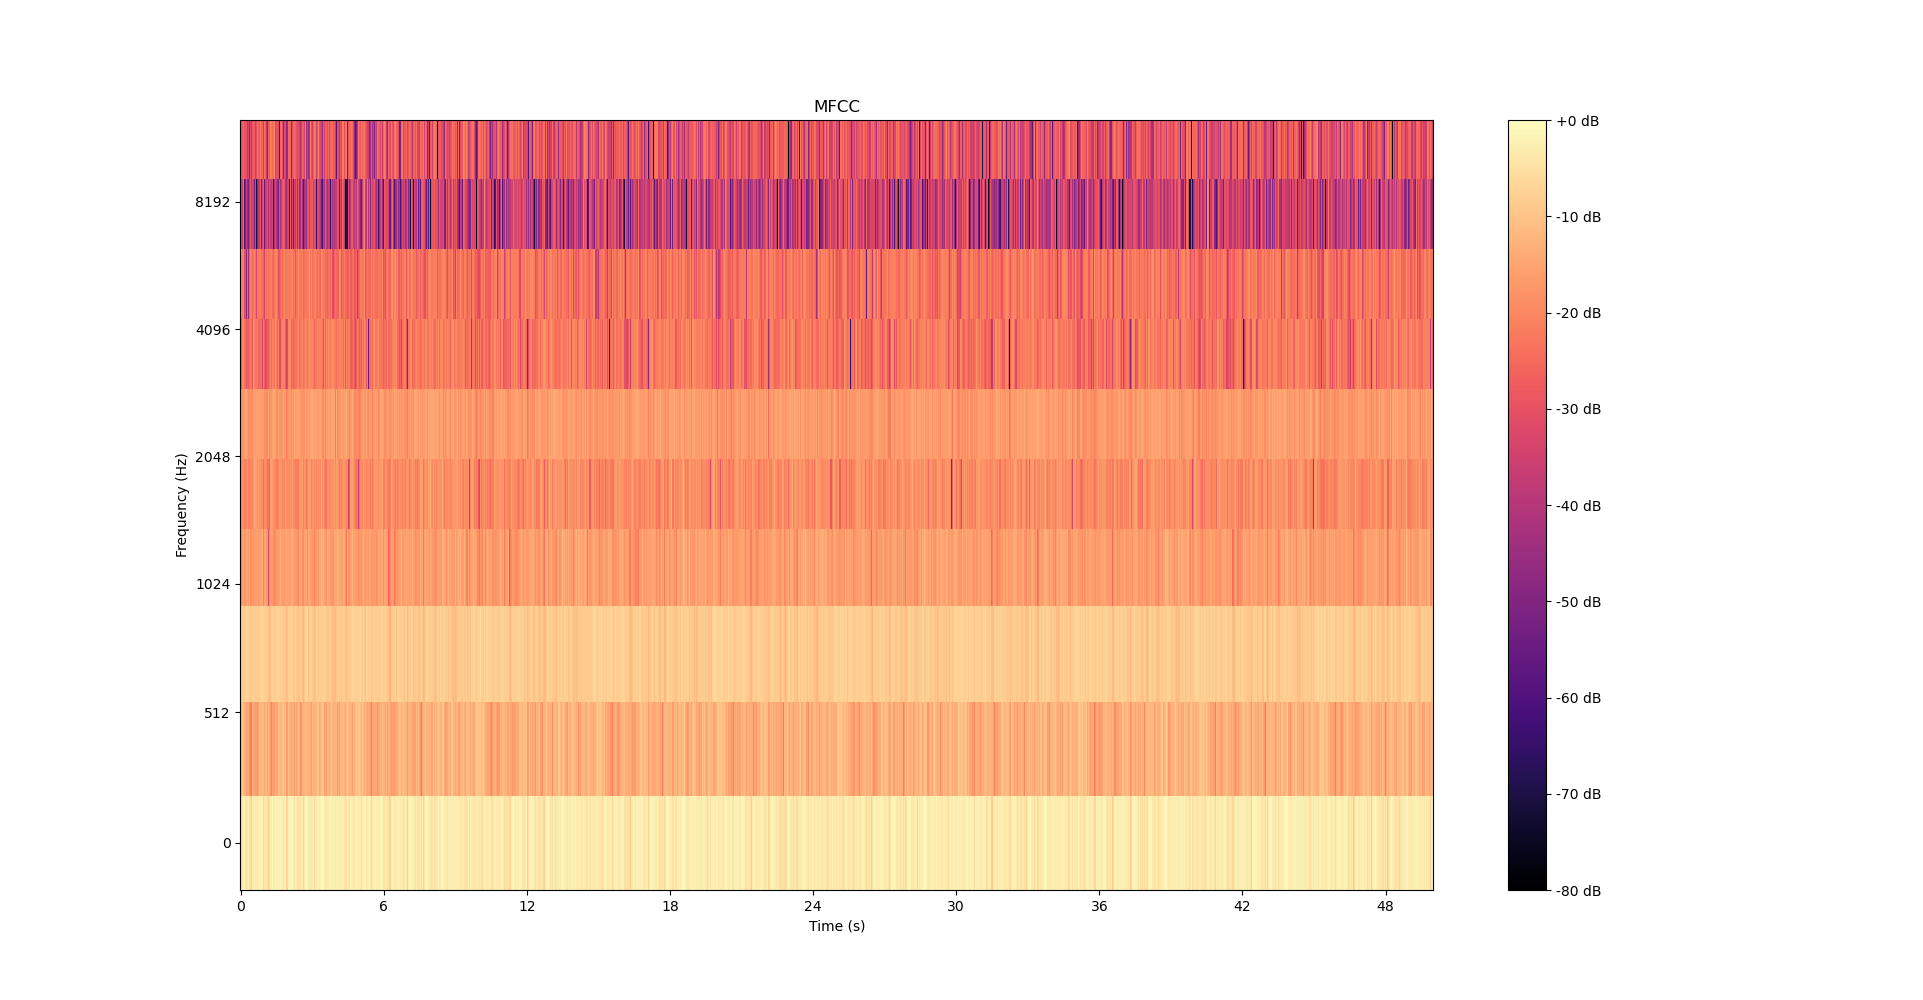
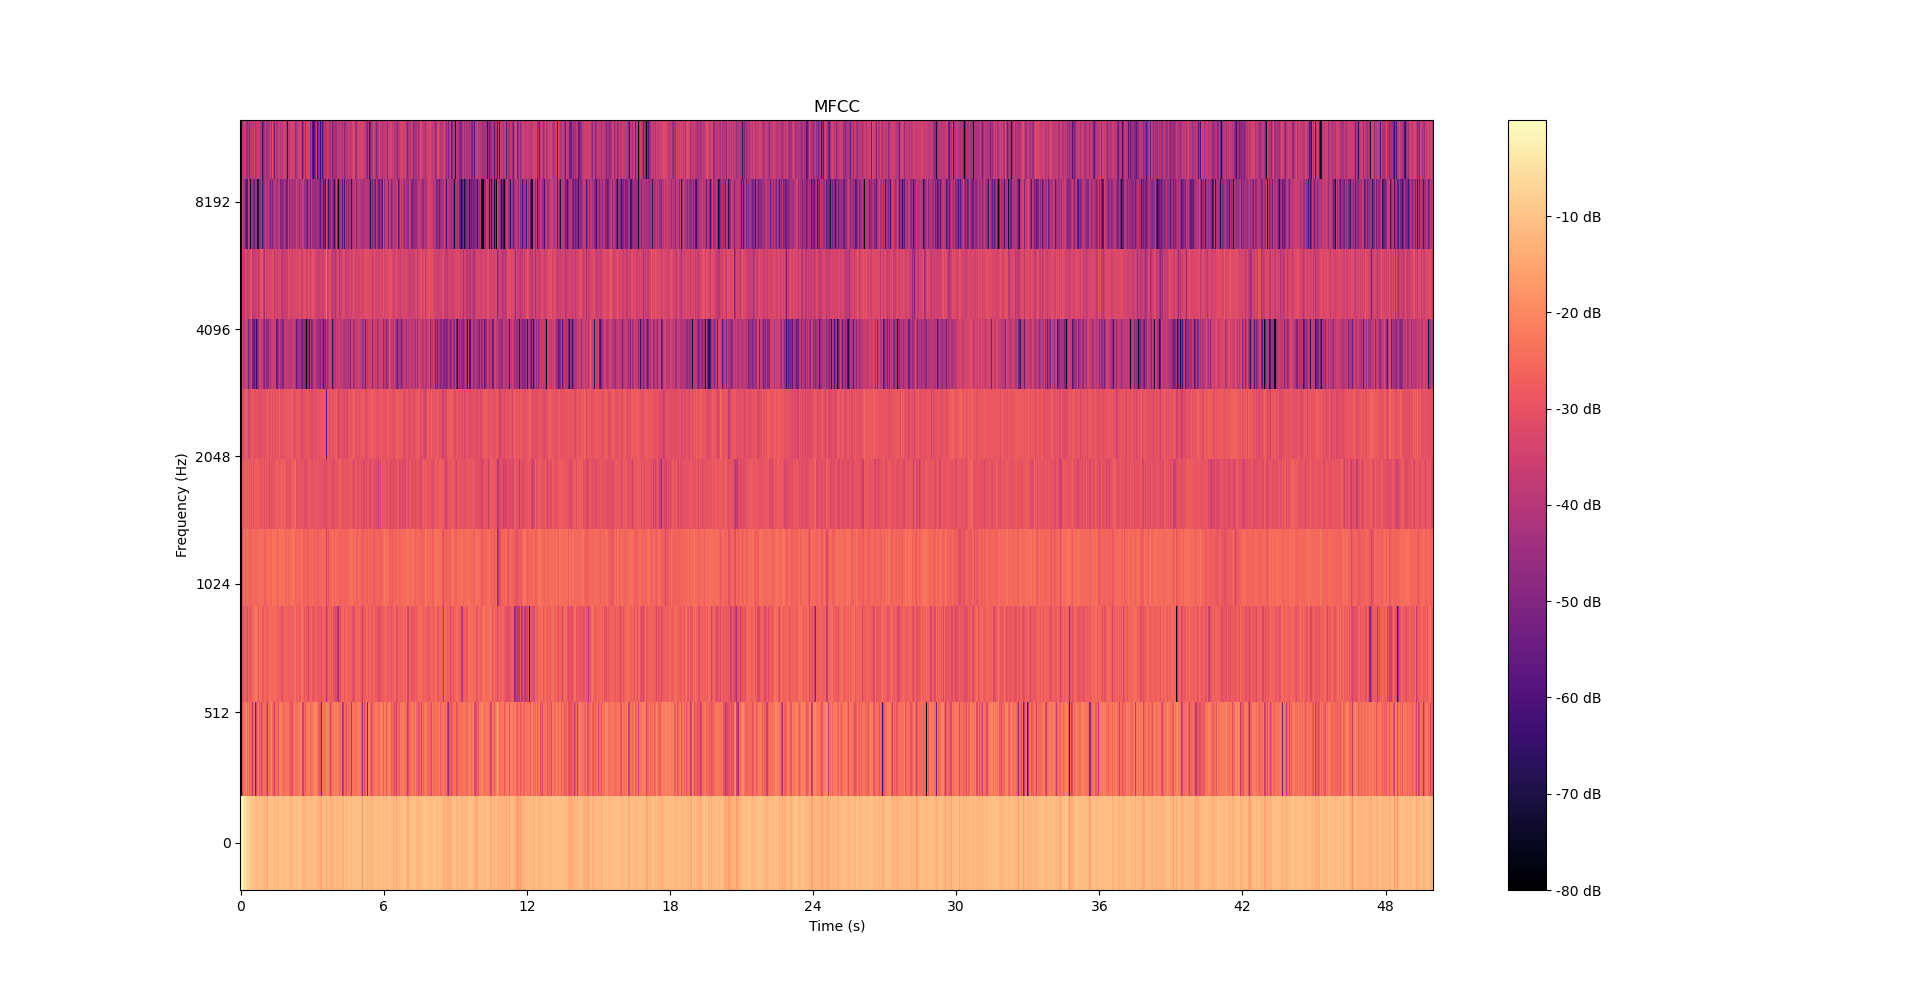
wildfire spectrogram

diff --git a/ForestFire.py b/ForestFire.py
@@ -12,11 +12,11 @@ def extractSTFT(audio):
     return s_scale
 
 def extractMelSpectrogram(audio):
-    mel_spectrogram = librosa.feature.melspectrogram(y=audio, n_mels=128, hop_length=HOP_SIZE, n_fft=FRAME_SIZE)
+    mel_spectrogram = librosa.feature.melspectrogram(y=audio, hop_length=HOP_SIZE, n_fft=FRAME_SIZE)
     return mel_spectrogram
 
 def extractMFCC(audio):
-    mfccs2 = librosa.feature.mfcc(y=audio, n_mfcc=10, hop_length=HOP_SIZE, n_fft=FRAME_SIZE)
+    mfccs2 = librosa.feature.mfcc(y=audio, hop_length=HOP_SIZE, n_fft=FRAME_SIZE)
     return mfccs2
 
 def extractScalogram(audio):
@@ -29,7 +29,7 @@ def extractScalogram(audio):
 def plotSpectogram(spectrogram, title, sr, hop_length, y_axis='log'):
     y_db = librosa.amplitude_to_db(np.abs(spectrogram), ref=np.max)
     plt.figure(figsize=(25,10))
-    librosa.display.specshow(y_db, sr=sr, hop_length=hop_length, x_axis='time', y_axis=y_axis)
+    librosa.display.specshow(y_db, sr=sr, hop_length=hop_length, x_axis='time', y_axis=y_axis, cmap='magma')
     plt.colorbar(format='%+2.0f dB')
     plt.xlabel('Time (s)')
     plt.ylabel('Frequency (Hz)')
@@ -46,7 +46,7 @@ def plotScalogram(audio, scalogram, freq, title, sr):
     plt.show()
 
 def main():
-    wildfire_sound = 'Data/WildFire/split audio 4-20210504T123341Z-001/split audio 4/videoplayback (1)_02.wav'
+    wildfire_sound = 'Data\WildFire\drive-download-20210504T145639Z-001\Split Files\y2mate.com - DD Ambience  Building on Fire  Blaze Inferno Wood Cracking Collapsing Loud Stressing_01.wav'
 
     ipd.Audio(wildfire_sound)
 
